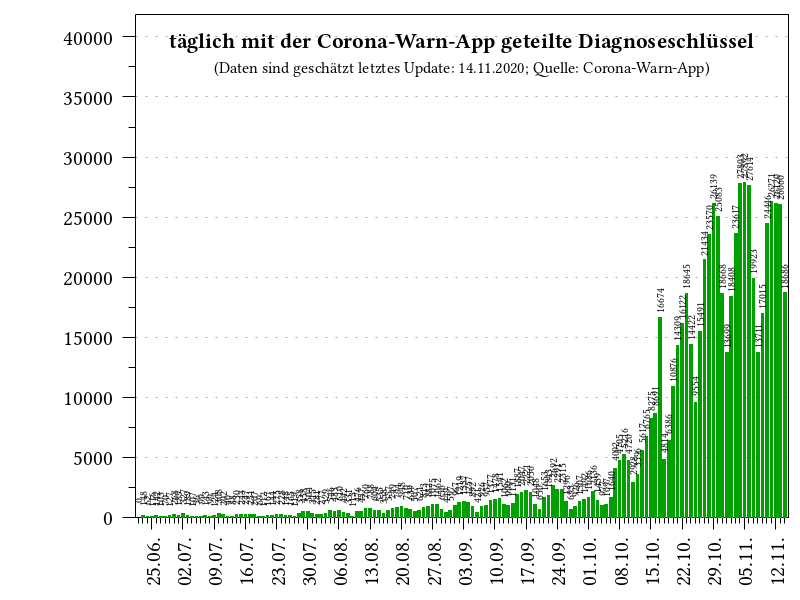
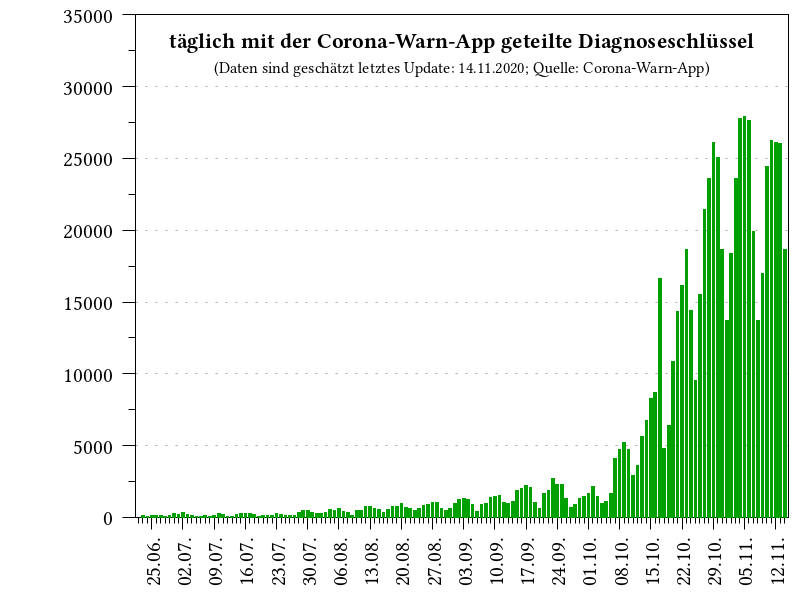
added "last 6 weeks"-plot for submitted keys

diff --git a/index.html b/index.html
@@ -57,6 +57,7 @@
         <h2 id="geteilte-diagnoseschlüssel-von-positiv-getesteten-personen-geschätzt">Geteilte Diagnoseschlüssel von positiv getesteten Personen (<a href="https://github.com/mh-/diagnosis-keys/blob/master/doc/algorithm.md">geschätzt</a>)</h2>
         <p>
          <img src="/dka/plots_de/plot_num_keys_submitted.png" alt="" />
+         <img src="/dka/plots_de/plot_num_keys_submitted_last_6_weeks.png" alt="" />
          <img src="/dka/plots_de/plot_sum_keys_submitted.png" alt="" />
         </p>
         

diff --git a/index_en.html b/index_en.html
@@ -57,6 +57,7 @@
         <h2 id="sharedTEKs">Shared legitimate diagnosis keys of positively tested people (<a href="https://github.com/mh-/diagnosis-keys/blob/master/doc/algorithm.md">estimates</a>)</h2>
         <p>
          <img src="/dka/plots_en/plot_num_keys_submitted.png" alt="" />
+         <img src="/dka/plots_en/plot_num_keys_submitted_last_6_weeks.png" alt="" />
          <img src="/dka/plots_en/plot_sum_keys_submitted.png" alt="" />
         </p>
         
